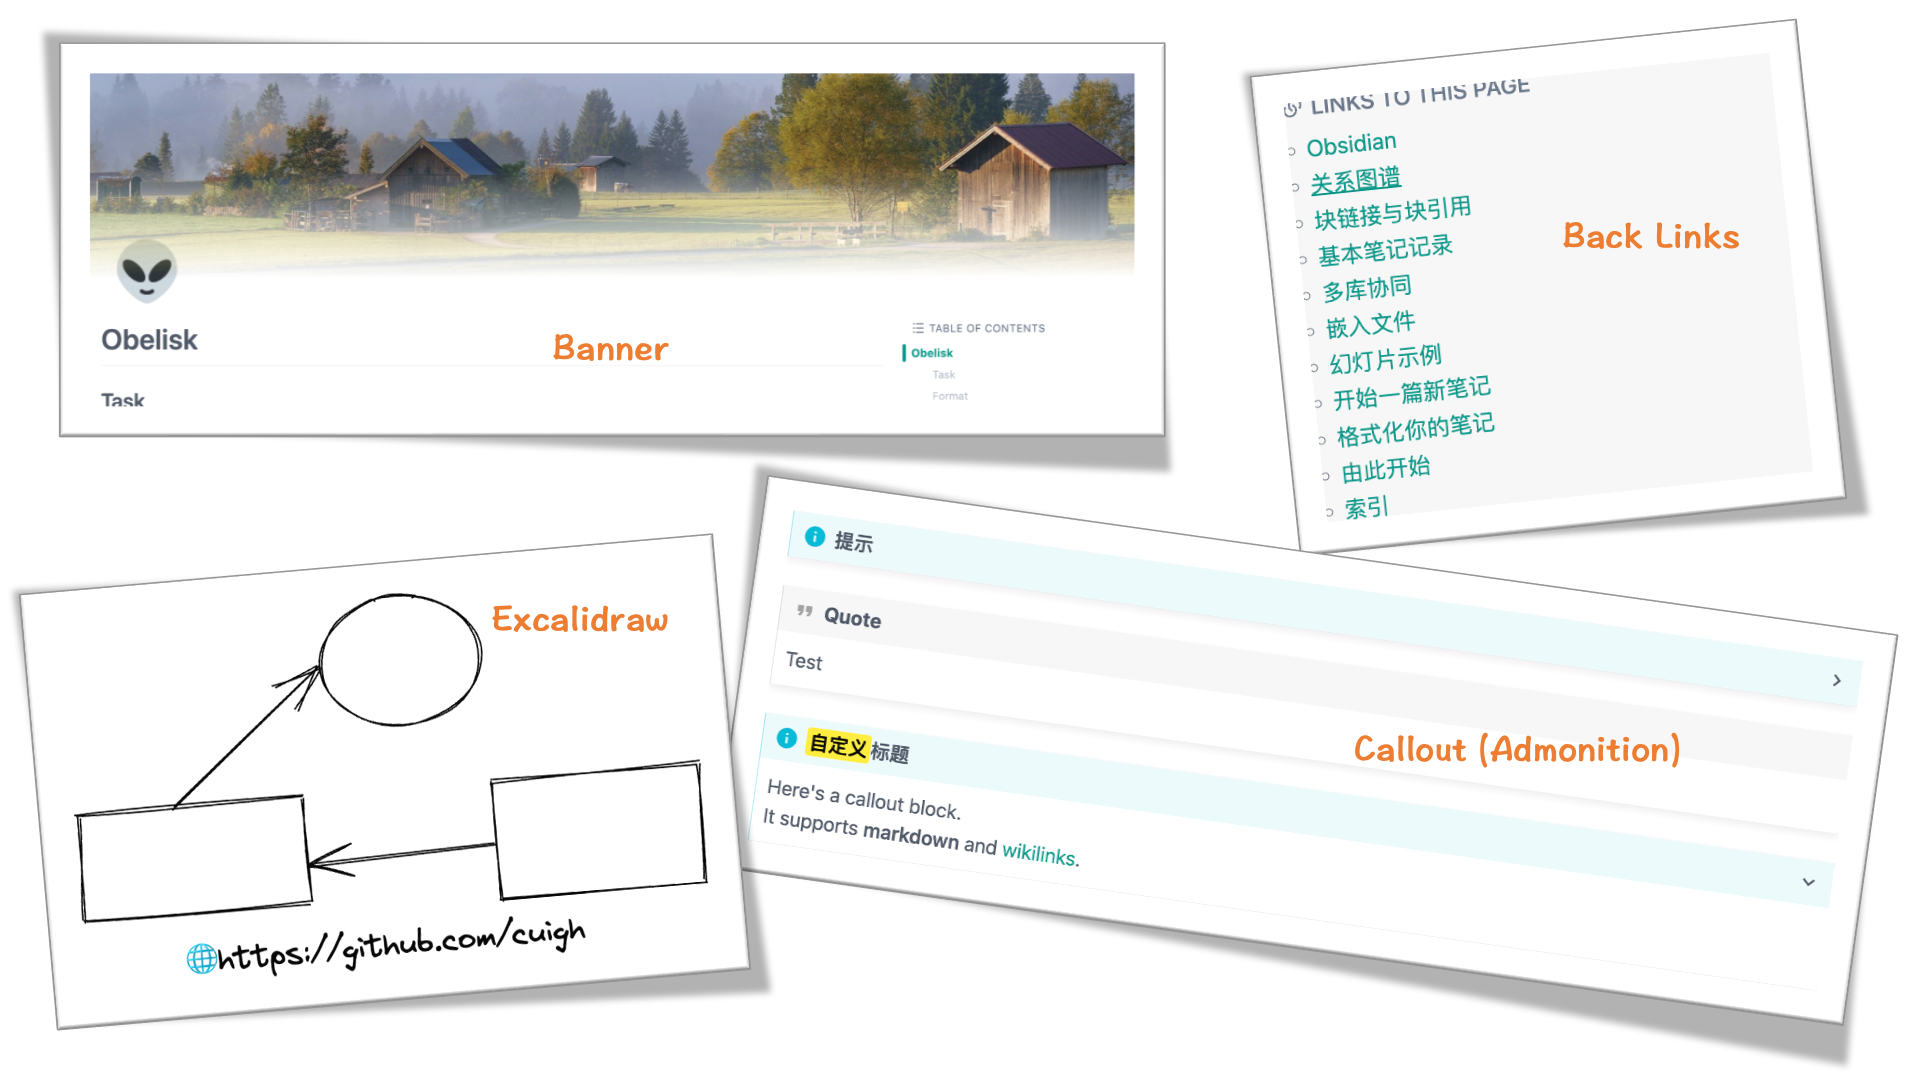
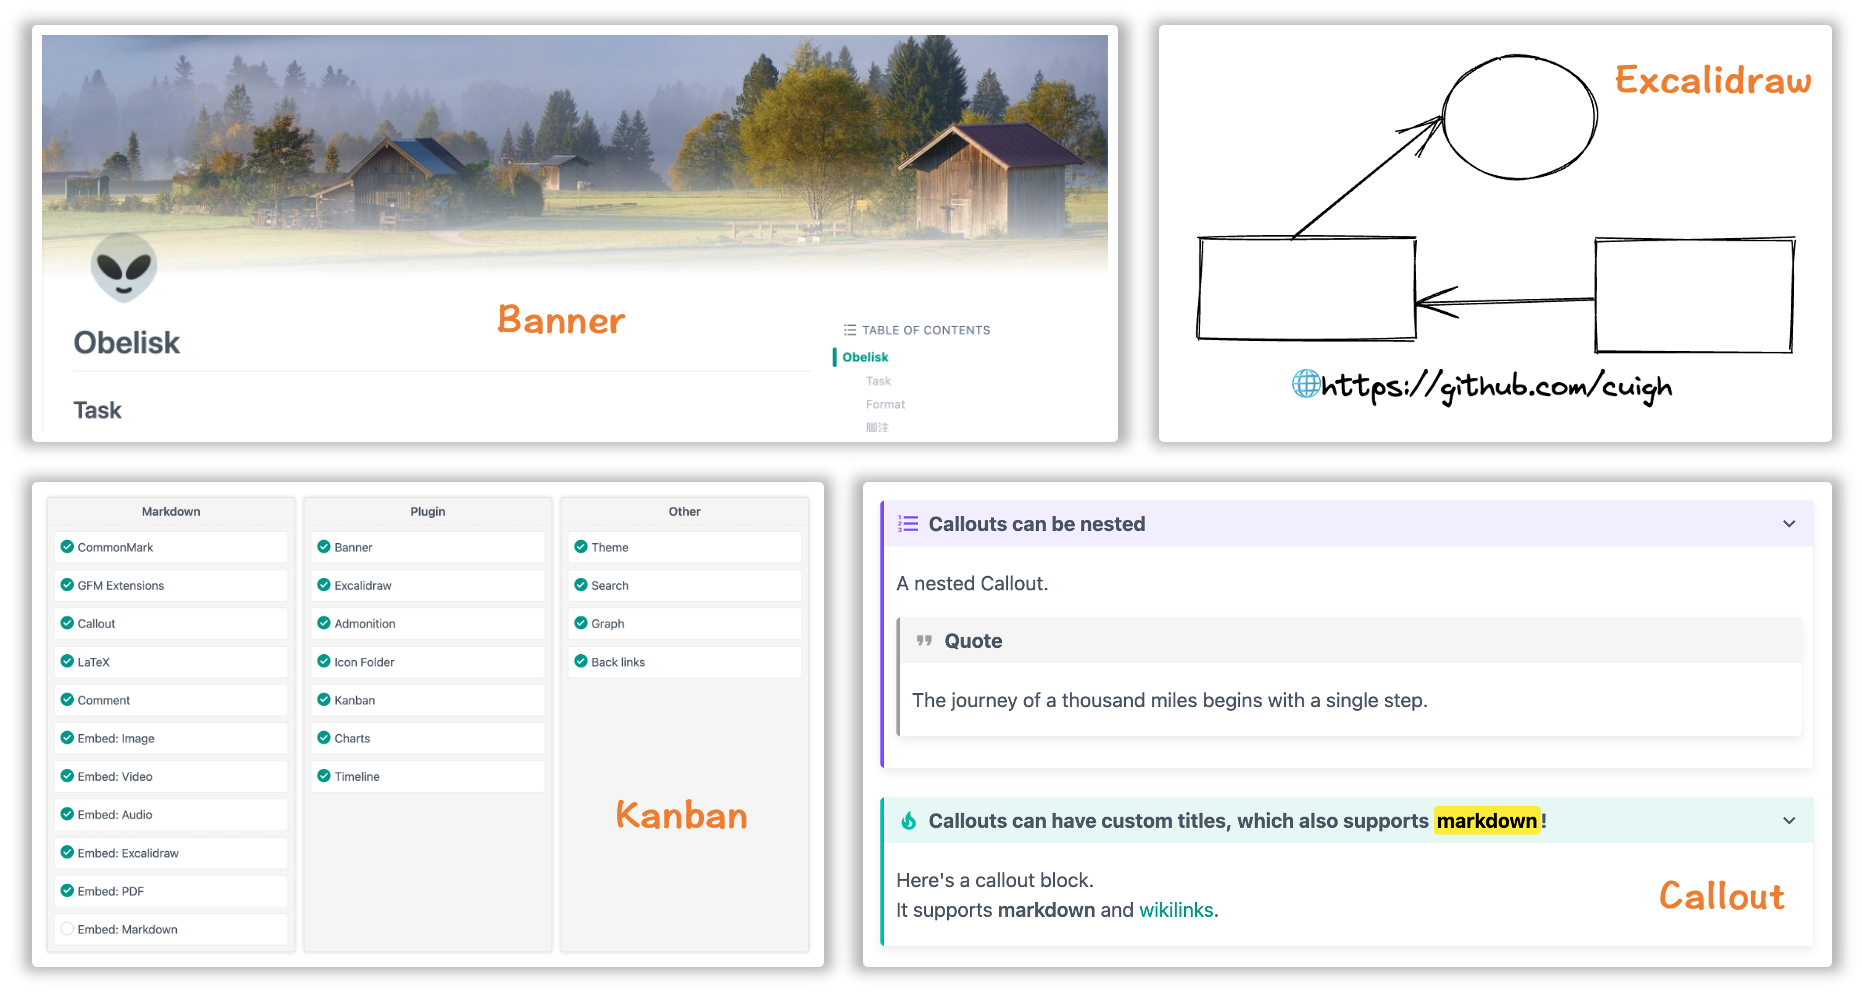
Update documents

diff --git a/README.md b/README.md
@@ -1,6 +1,6 @@
 [English](https://github.com/cuigh/obelisk) | [中文](https://github.com/cuigh/obelisk/blob/master/README_zh.md)
 
-Obelisk is a publishing tool for markdown document library, which can help you generate HTML documents simply and quickly. In particular, out of personal preference, Obelisk has made a lot of optimization for the [Obsidian](https://obsidian.md) document library, which can be used as an alternative to the official publishing service.
+Obelisk is a publishing tool for markdown document library, which can help you generate HTML documents simply and quickly. In particular, out of personal preference, Obelisk has made a lot of optimization for the [Obsidian](https://obsidian.md) document library, and can be used as an alternative to the official publishing service.
 
 ## Features
 
@@ -11,7 +11,7 @@ Obelisk is a publishing tool for markdown document library, which can help you g
 - Support some mainstream plugins of the Obsidian community
 	- Excalidraw
 	- Banner
-	- Admonition
+	- Kanban
 	- Icon Folder
 	- ……
 
@@ -37,13 +37,13 @@ Please follow the [Documentation](https://cuigh.com/obelisk). As you might expec
 - [x] Callout
 - [x] LaTeX
 - [x] Comment
-- [ ] Embed
+- [x] Embed
 	- [x] Image
 	- [x] Audio
 	- [x] Video
 	- [x] Excalidraw
 	- [x] PDF
-	- [ ] Markdown
+	- [x] Markdown
 - [x] Plugin
 	- [x] Banner
 	- [x] Excalidraw
@@ -51,7 +51,7 @@ Please follow the [Documentation](https://cuigh.com/obelisk). As you might expec
 	- [x] Icon Folder
 	- [x] Kanban
 	- [x] Charts
-	- [ ] Timeline
+	- [x] Timeline
 - [x] Theme
 - [x] Search
 - [x] Graph

diff --git a/docs/03 Roadmap.md b/docs/03 Roadmap.md
@@ -1,26 +1,47 @@
-## Roadmap
+---
+
+kanban-plugin: basic
+
+---
+
+## Markdown
 
 - [x] CommonMark
 - [x] GFM Extensions
 - [x] Callout
 - [x] LaTeX
 - [x] Comment
-- [ ] Embed
-	- [x] Image
-	- [x] Audio
-	- [x] Video
-	- [x] Excalidraw
-	- [x] PDF
-	- [ ] Markdown
-- [x] Plugin
-	- [x] Banner
-	- [x] Excalidraw
-	- [x] Admonition
-	- [x] Icon Folder
-	- [x] Kanban
-	- [x] Charts
-	- [ ] Timeline
+- [x] Embed: Image
+- [x] Embed: Video
+- [x] Embed: Audio
+- [x] Embed: Excalidraw
+- [x] Embed: PDF
+- [x] Embed: Markdown
+
+
+## Plugin
+
+- [x] Banner
+- [x] Excalidraw
+- [x] Admonition
+- [x] Icon Folder
+- [x] Kanban
+- [x] Charts
+- [x] Timeline
+
+
+## Other
+
 - [x] Theme
 - [x] Search
 - [x] Graph
 - [x] Back links
+
+
+
+
+%% kanban:settings
+```
+{"kanban-plugin":"basic"}
+```
+%%

diff --git a/docs/02 Theme.md b/docs/02 Theme.md
@@ -4,7 +4,7 @@ Obelisk fully understood everyone's personalized needs, so it added support for 
 
 ## Built in themes
 
-At present, Obelisk has built-in willow and coco themes (since the author is not a professional designer after all, please forgive me if you think the style is not to your taste). To use the built-in theme, you only need to pass the theme name to the theme parameter, as shown below.
+At present, Obelisk has built-in willow and coco themes (Since I'm not a professional designer after all, please forgive me if the style is not to your taste). To use the built-in theme, you only need to pass the theme name to the theme parameter, as shown below.
 
 ```shell
 obelisk build -v /folder/to/vault -o /folder/to/output -t willow

diff --git a/docs/04 Changelog.md b/docs/04 Changelog.md
@@ -1,9 +1,21 @@
+---
+layout: timeline
+---
+
+# Changelog
+
+## v0.6.0 @{2022-04-08}
+- Add support for timeline (Set layout as 'timeline' in metadata)
+- Add timestamp to internal js/css resources
+- Support markdown embedding of Obsidian vault
+- Turn consecutive images into columns
+
 ## v0.5.1 @{2022-04-06}
 - Fix callout rendering
 - Tasklist supports characters other than 'x' and 'X' now
 - Change search shortcuts of willow theme to '/'
-- Add support for charts plugin
-- Add support for kanban plugin
+- Add support for `obsidian-charts` plugin
+- Add support for `obsidian-kanban` plugin
 - Replace embed mermaid.js and echarts.js to CDN
 
 ## v0.5.0 @{2022-03-29}
